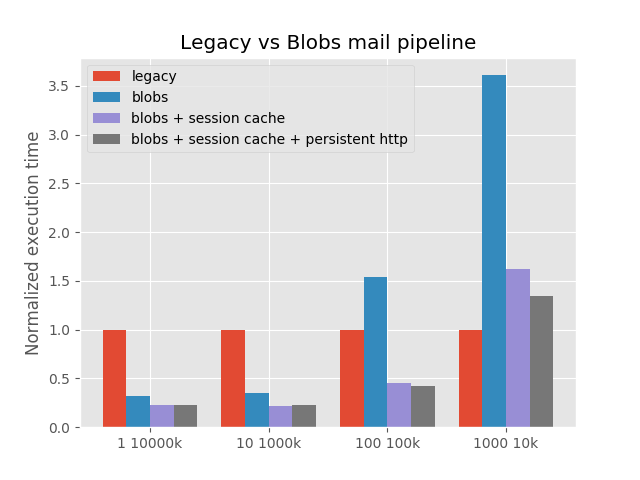
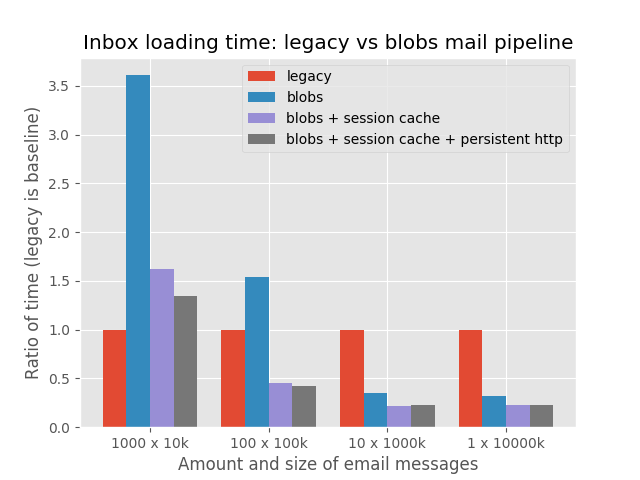
[test] improve legacy vs blobs image

diff --git a/scripts/legacy-vs-blobs/legacy-vs-blobs.py b/scripts/legacy-vs-blobs/legacy-vs-blobs.py
@@ -22,10 +22,10 @@ OUTPUT_FILENAME = 'legacy-vs-blobs.png'
 # The baseline values will be the legacy results in ./data/no-cache/.
 
 graphs = [
-    '1_10000k',
-    '10_1000k',
-    '100_100k',
     '1000_10k',
+    '100_100k',
+    '10_1000k',
+    '1_10000k',
 ]
 
 
@@ -104,10 +104,12 @@ def plot_data(data):
     rects4 = ax.bar(ind + (3 * width), persistent, width)
 
     # add some text for labels, title and axes ticks
-    ax.set_ylabel('Normalized execution time')
-    ax.set_title('Legacy vs Blobs mail pipeline')
+    ax.set_ylabel('Ratio of time (legacy is baseline)')
+    ax.set_xlabel('Amount and size of email messages')
+    ax.set_title('Inbox loading time: legacy vs blobs mail pipeline')
     ax.set_xticks(ind + (1.5 * width))
-    ax.set_xticklabels(tuple(map(lambda name: name.replace('_', ' '), graphs)))
+    ax.set_xticklabels(
+        tuple(map(lambda name: name.replace('_', ' x '), graphs)))
 
     ax.legend(
         (rects1[0], rects2[0], rects3[0], rects4[0]),
